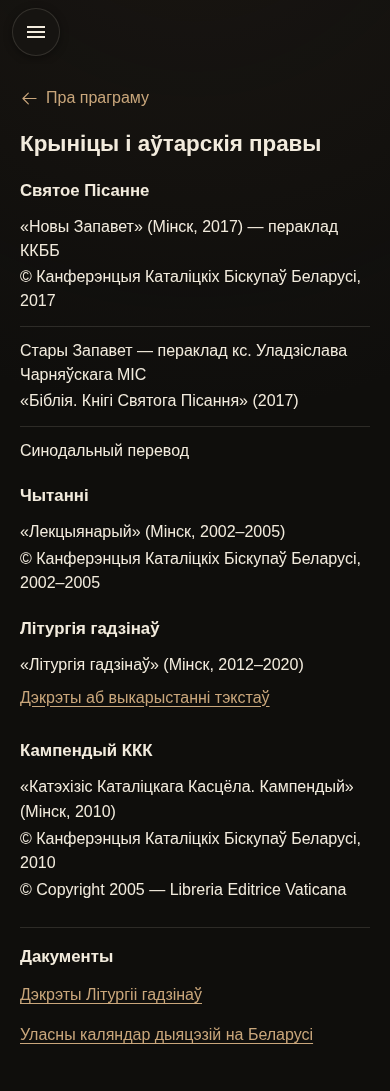
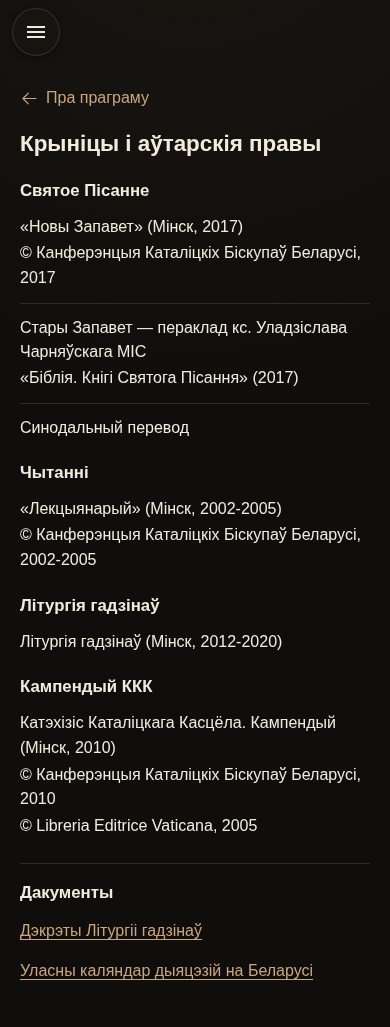
fix: align source attribution with primary remarks and trim review artifacts

diff --git a/src/components/SourceRights.vue b/src/components/SourceRights.vue
@@ -4,11 +4,10 @@
       <h2 :id="`sources-${group.id}`">{{ group.title }}</h2>
       <ul class="source-rights__list">
         <li v-for="source in group.entries" :id="source.id" :key="source.id" class="source-rights__entry">
-          <h3 v-if="source.translation.label">{{ textLabel(source) }}</h3>
-          <p v-if="edition(source) && source.id !== bindings.bible.bel.new" class="source-rights__edition">{{ edition(source) }}</p>
-          <p v-for="notice in source.copyrightNotices" :key="notice">{{ notice }}</p>
+          <h3 v-if="source.translation.label && source.id !== bindings.bible.bel.new">{{ textLabel(source) }}</h3>
+          <p v-if="edition(source)" class="source-rights__edition">{{ edition(source) }}</p>
+          <p v-for="notice in source.copyrightNotices" :key="notice">{{ copyrightNotice(notice) }}</p>
           <p v-if="source.rightsholder && !source.copyrightNotices.length">{{ source.rightsholder }}</p>
-          <router-link v-if="source.decrees" :to="{ name: 'LiturgyHoursDecrees' }" class="source-rights__decrees-link">Дэкрэты аб выкарыстанні тэкстаў</router-link>
         </li>
       </ul>
     </section>
@@ -29,17 +28,17 @@ const groups = [
 function edition(source) {
   const details = [source.publicationPlace, source.years].filter(Boolean).join(', ');
   if (source.id === bindings.bible.ru.old) return '';
-  return `«${source.officialEdition}»${details ? ` (${details})` : ''}`;
+  const title = ['liturgy-hours-2012-2020', 'compendium-kkbb-2010'].includes(source.id) ? source.officialEdition : `«${source.officialEdition}»`;
+  return `${title}${details ? ` (${details})` : ''}`;
 }
 
 function textLabel(source) {
-  if (source.id === bindings.bible.bel.new) {
-    const translator = source.translation.label.split(' · ').at(-1).replace(`, ${source.years}`, '');
-    return `${edition(source)} — ${translator}`;
-  }
   return source.translation.label.replace(' · ', ' — ').replace(`, ${source.years}`, '');
 }
 
+function copyrightNotice(notice) {
+  return notice.replace(/^© Copyright (\d+) — (.+)$/, '© $2, $1');
+}
 </script>
 
 <style scoped>
@@ -52,6 +51,5 @@ function textLabel(source) {
 .source-rights__entry + .source-rights__entry { margin-top: 12px; padding-top: 12px; border-top: 1px solid var(--nav-border); }
 .source-rights p { margin: 2px 0 0; }
 .source-rights a { color: var(--chrome-accent); text-underline-offset: 3px; }
-.source-rights__decrees-link { display: inline-block; padding-block: 8px; }
 .source-rights a:focus-visible { outline: 2px solid var(--chrome-accent); outline-offset: 3px; }
 </style>

diff --git a/src/views/ProperCalendar.vue b/src/views/ProperCalendar.vue
@@ -10,7 +10,10 @@
         <section v-for="page in calendar.pages" :key="page.number" :data-page="page.number" class="calendar-page" :aria-label="`Старонка ${page.number} арыгінала`">
           <template v-for="(row, index) in page.rows" :key="index">
             <h2 v-if="row.kind === 'month'" :id="`month-${row.month}`" class="calendar-month">{{ row.text }}</h2>
-            <p v-else-if="row.kind === 'intro' || row.kind === 'note'" :class="`calendar-${row.kind}`"><DocumentRuns :runs="row.runs" /></p>
+            <template v-else-if="row.kind === 'intro'">
+              <p v-if="index === 0" class="calendar-intro"><DocumentRuns :runs="introRuns" /></p>
+            </template>
+            <p v-else-if="row.kind === 'note'" class="calendar-note"><DocumentRuns :runs="row.runs" /></p>
             <div v-else class="calendar-row" :class="{ 'calendar-row--full': !row.date && !row.indent, 'calendar-row--empty': row.date && !row.runs.length }" :data-month="row.month" :data-date="row.date">
               <span v-if="row.date" class="calendar-date" :class="`doc-tone--${row.dateTone}`">{{ row.date }}.</span>
               <span class="calendar-text"><DocumentRuns :runs="row.runs" /></span>
@@ -27,6 +30,10 @@
 import calendar from '@/data/documents/proper-calendar.json';
 import DocumentBack from '@/components/DocumentBack.vue';
 import DocumentRuns from '@/components/DocumentRuns.vue';
+// Keep the five source lines and their styles intact in the document data.
+// Only their presentation becomes one logical, naturally wrapping paragraph.
+const introRuns = calendar.pages.flatMap(page => page.rows).filter(row => row.kind === 'intro')
+  .flatMap((row, index) => [...(index ? [{ ...row.runs[0], text: ' ' }] : []), ...row.runs]);
 </script>
 <style src="@/styles/documents.css"></style>
 <style scoped>

diff --git a/scripts/documents/check-source-citations.py b/scripts/documents/check-source-citations.py
@@ -1,0 +1,25 @@
+#!/usr/bin/env python3
+"""Verify public bibliography against the supplied original DOCX, not prompt copies."""
+from pathlib import Path
+import json
+import zipfile
+import xml.etree.ElementTree as ET
+root = Path(__file__).resolve().parents[2]
+with zipfile.ZipFile(root / 'docs/sources/primary/jan-kremis-remarks-2026-11-02.docx') as archive:
+    xml = ET.fromstring(archive.read('word/document.xml'))
+ns = {'w': 'http://schemas.openxmlformats.org/wordprocessingml/2006/main'}
+paragraphs = [''.join(p.itertext()).strip() for p in xml.findall('.//w:p', ns)]
+entries = {e['id']: e for e in json.loads((root / 'src/data/sources.json').read_text())['entries']}
+for id, quoted in [('bible-nt-kkbb-2017', True), ('lectionary-kkbb-2002-2005', True), ('compendium-kkbb-2010', False), ('liturgy-hours-2012-2020', False)]:
+    e = entries[id]
+    title = f'«{e["officialEdition"]}»' if quoted else e['officialEdition']
+    citation = f'{title} ({e["publicationPlace"]}, {e["years"]})'
+    assert citation in paragraphs, citation
+    if e['rightsholder']:
+        assert e['copyrightNotices'][0] in paragraphs, e['copyrightNotices'][0]
+assert entries['bible-nt-kkbb-2017']['translation']['label'] == 'Новы Запавет · ККББ, 2017'
+for id in ['liturgy-hours-2012-2020', 'bible-charniauski-2017', 'bible-ru-synodal']:
+    assert entries[id]['rightsholder'] is None
+legacy_notice = entries['compendium-kkbb-2010']['copyrightNotices'][1]
+assert legacy_notice in (root / 'scripts/compendium-source/3963-kampendyj-katekhizisa-katalitskaga-kastsjola.html').read_text()
+print('DOCX: four bibliographic citations and three KKBB notices match verbatim; LEV verified against saved primary HTML; unknown holders remain null')

diff --git a/scripts/documents/build-calendar-comparisons.py b/scripts/documents/build-calendar-comparisons.py
@@ -3,10 +3,11 @@
 No application data is changed. Requires PyMuPDF and Pillow.
 """
 from pathlib import Path
+import os
 import fitz
 from PIL import Image, ImageDraw, ImageFont
 root = Path(__file__).resolve().parents[2]
-out = root / 'docs/sources/evidence/documents'
+out = root / os.environ.get('SOURCE_EVIDENCE_DIR', 'reports/source-review/documents')
 pdf = fitz.open(root / 'public/documents/proper-calendar.pdf')
 font = ImageFont.truetype('/usr/share/fonts/truetype/dejavu/DejaVuSans.ttf', 19)
 for number in [1, 5, 8, 12, 13]:

diff --git a/docs/sources/documents-audit-2026-11-05.md b/docs/sources/documents-audit-2026-11-05.md
@@ -1,5 +1,7 @@
 # PR #189: первичные документы, декреты и собственный календарь
 
+Актуальные точечные исправления: [отчёт независимой проверки](review-corrections.md).
+
 Доработка по пакету `MyBrev_PR189_sources_decrees_calendar.zip`, полученному 05.11.2026.
 Исходная ревизия этой доработки: `02aa708`. Использованы все три присланных первичных
 документа и https://lh.catholic.by/dekrety.php. Контрольные суммы и исходные имена —
@@ -118,25 +120,25 @@ HTML представляет читаемую статью: бумажные п
 
 | Лист | Диапазон и особенности | HTML-снимок |
 | --- | --- | --- |
-| 1 | Заголовок/протоколы, январь 1–31, диоцезия 27-го, Крещение, красное курсивное примечание | [01](evidence/documents/html-sheet-01.png) |
-| 2 | Февраль 1–28, два варианта 3-го и 8-го, подзапись 15-го | [02](evidence/documents/html-sheet-02.png) |
-| 3 | Март 1–31, Казимир 4-го, освящение собора 16-го, степени справа | [03](evidence/documents/html-sheet-03.png) |
-| 4 | Апрель 1–30, пустые даты, пары воспоминаний, капители 29-го | [04](evidence/documents/html-sheet-04.png) |
-| 5 | Май 1–31, Пинск 1-го, многострочный Андрей Боболя 16-го, пурпурная звёздочка | [05](evidence/documents/html-sheet-05.png) |
-| 6 | Три подвижных празднования после мая, без нового месяца | [06](evidence/documents/html-sheet-06.png) |
-| 7 | Июнь 1–30, разные диоцезии 12-го, три подвижные записи после 30-го | [07](evidence/documents/html-sheet-07.png) |
-| 8 | Июль 1–31, Будслав 2-го, Тамаш 3-го, Кармель 16-го, Мария/Марта/Лазарь 29-го | [08](evidence/documents/html-sheet-08.png) |
-| 9 | Август 1–31, Кольбе 14-го, Ченстоховская Богоматерь 26-го, степени и звёздочки | [09](evidence/documents/html-sheet-09.png) |
-| 10 | Сентябрь 1–30, несколько диоцезий, капители и звёздочка 29-го | [10](evidence/documents/html-sheet-10.png) |
-| 11 | Октябрь 1–31, тройная запись 9-го, освящение 10-го, две диоцезии 26-го | [11](evidence/documents/html-sheet-11.png) |
-| 12 | Ноябрь 1–25, Язафат 12-го, все диоцезиальные варианты 16-го, курсив и отступы | [12](evidence/documents/html-sheet-12.png) |
-| 13 | Ноябрь 26–30, Христос Царь, декабрь 1–31, Гродно 4-го, Святое Семейство | [13](evidence/documents/html-sheet-13.png) |
+| 1 | Заголовок/протоколы, январь 1–31, диоцезия 27-го, Крещение, красное курсивное примечание | 01 (`evidence/documents/html-sheet-01.png`, воспроизводимый снимок в `reports/source-review/`) |
+| 2 | Февраль 1–28, два варианта 3-го и 8-го, подзапись 15-го | 02 (`evidence/documents/html-sheet-02.png`, воспроизводимый снимок в `reports/source-review/`) |
+| 3 | Март 1–31, Казимир 4-го, освящение собора 16-го, степени справа | 03 (`evidence/documents/html-sheet-03.png`, воспроизводимый снимок в `reports/source-review/`) |
+| 4 | Апрель 1–30, пустые даты, пары воспоминаний, капители 29-го | 04 (`evidence/documents/html-sheet-04.png`, воспроизводимый снимок в `reports/source-review/`) |
+| 5 | Май 1–31, Пинск 1-го, многострочный Андрей Боболя 16-го, пурпурная звёздочка | 05 (`evidence/documents/html-sheet-05.png`, воспроизводимый снимок в `reports/source-review/`) |
+| 6 | Три подвижных празднования после мая, без нового месяца | 06 (`evidence/documents/html-sheet-06.png`, воспроизводимый снимок в `reports/source-review/`) |
+| 7 | Июнь 1–30, разные диоцезии 12-го, три подвижные записи после 30-го | 07 (`evidence/documents/html-sheet-07.png`, воспроизводимый снимок в `reports/source-review/`) |
+| 8 | Июль 1–31, Будслав 2-го, Тамаш 3-го, Кармель 16-го, Мария/Марта/Лазарь 29-го | 08 (`evidence/documents/html-sheet-08.png`, воспроизводимый снимок в `reports/source-review/`) |
+| 9 | Август 1–31, Кольбе 14-го, Ченстоховская Богоматерь 26-го, степени и звёздочки | 09 (`evidence/documents/html-sheet-09.png`, воспроизводимый снимок в `reports/source-review/`) |
+| 10 | Сентябрь 1–30, несколько диоцезий, капители и звёздочка 29-го | 10 (`evidence/documents/html-sheet-10.png`, воспроизводимый снимок в `reports/source-review/`) |
+| 11 | Октябрь 1–31, тройная запись 9-го, освящение 10-го, две диоцезии 26-го | 11 (`evidence/documents/html-sheet-11.png`, воспроизводимый снимок в `reports/source-review/`) |
+| 12 | Ноябрь 1–25, Язафат 12-го, все диоцезиальные варианты 16-го, курсив и отступы | 12 (`evidence/documents/html-sheet-12.png`, воспроизводимый снимок в `reports/source-review/`) |
+| 13 | Ноябрь 26–30, Христос Царь, декабрь 1–31, Гродно 4-го, Святое Семейство | 13 (`evidence/documents/html-sheet-13.png`, воспроизводимый снимок в `reports/source-review/`) |
 
-Сопоставления: [лист 1](evidence/documents/compare-sheet-01.png),
-[лист 5](evidence/documents/compare-sheet-05.png),
+Сопоставления: лист 1 (`evidence/documents/compare-sheet-01.png`, воспроизводимый снимок в `reports/source-review/`),
+лист 5 (`evidence/documents/compare-sheet-05.png`, воспроизводимый снимок в `reports/source-review/`),
 [лист 8](evidence/documents/compare-sheet-08.png),
 [лист 12](evidence/documents/compare-sheet-12.png),
-[лист 13](evidence/documents/compare-sheet-13.png).
+лист 13 (`evidence/documents/compare-sheet-13.png`, воспроизводимый снимок в `reports/source-review/`).
 Они покрывают вступление, цвета, курсив, звёздочки, многострочные/вложенные записи,
 капители, степени справа и продолжение месяца на другом листе.
 
@@ -144,12 +146,12 @@ HTML представляет читаемую статью: бумажные п
 
 Основные страницы: [декреты, телефон](evidence/documents/decrees-390-light.png),
 [календарь, телефон](evidence/documents/calendar-390-light.png),
-[декреты, desktop](evidence/documents/decrees-1440-light.png),
-[календарь, desktop](evidence/documents/calendar-1440-light.png).
-Контрольные фрагменты (без плавающего меню): [IV декрет](evidence/documents/decree-IV-390-light.png),
-[ноябрь](evidence/documents/november-390-light.png).
-Тёмная тема: [декреты](evidence/documents/decrees-390-dark.png),
-[календарь](evidence/documents/calendar-390-dark.png).
+декреты, desktop (`evidence/documents/decrees-1440-light.png`, воспроизводимый снимок в `reports/source-review/`),
+календарь, desktop (`evidence/documents/calendar-1440-light.png`, воспроизводимый снимок в `reports/source-review/`).
+Контрольные фрагменты (без плавающего меню): IV декрет (`evidence/documents/decree-IV-390-light.png`, воспроизводимый снимок в `reports/source-review/`),
+ноябрь (`evidence/documents/november-390-light.png`, воспроизводимый снимок в `reports/source-review/`).
+Тёмная тема: декреты (`evidence/documents/decrees-390-dark.png`, воспроизводимый снимок в `reports/source-review/`),
+календарь (`evidence/documents/calendar-390-dark.png`, воспроизводимый снимок в `reports/source-review/`).
 Все 320/390/768/1440 px × light/dark — в `evidence/documents/`;
 [results.json](evidence/documents/results.json) содержит результаты восьми сценариев.
 

diff --git a/docs/sources/review-corrections.md b/docs/sources/review-corrections.md
@@ -1,0 +1,63 @@
+# PR #189: точечные исправления после независимой проверки
+
+Сверка выполнена непосредственно с `primary/jan-kremis-remarks-2026-11-02.docx`.
+Воспроизведение: `python3 scripts/documents/check-source-citations.py`.
+
+| Замечание | Статус | Результат |
+| --- | --- | --- |
+| 1. Дублирующая ссылка на декреты | Исправлено | В библиографической записи ссылки нет; единственная ссылка осталась в «Дакументы». |
+| 2. «пераклад ККББ» у Нового Завета | Исправлено | На `/sources` только «Новы Запавет» (Мінск, 2017) и © Канферэнцыя Каталіцкіх Біскупаў Беларусі, 2017. В читателе: «Новы Запавет · ККББ, 2017». |
+| 3. Дословные сведения Крэміса | Исправлено | Сверены название, место/год и ©. Для Лекционария — «Лекцыянарый» (Мінск, 2002-2005); для Кампендиума — Катэхізіс Каталіцкага Касцёла. Кампендый (Мінск, 2010); для часов — Літургія гадзінаў (Мінск, 2012-2020). Дефисы диапазонов — как в DOCX; дополнительных определений в UI нет. |
+| 4. Неустановленные правообладатели | Ждёт подтверждения | У часов, Чарняўскага и Синодального перевода остаётся `rightsholder: null`. Выдуманных значений нет; менять их не требуется. Нужны первичные выходные данные/подтверждение прав; вопросы сохранены в техническом реестре и отчёте документов. |
+| 5. Две строки © Кампендиума | Исправлено / права LEV не требуют удаления | ККББ 2010 подтверждён DOCX; LEV 2005 — сохранённым первичным HTML Catholic.by. В UI: © Libreria Editrice Vaticana, 2005. Избыточное слово `Copyright` убрано только при отображении; оригинальная строка в реестре сохранена. |
+| 6. Два набора метаданных декретов | Исправлено | Строгий тест сравнивает целиком упорядоченные проекции всех четырёх записей: том, номер, ISO-дата, URL; отдельно проверяет якоря/ID и путь первичного IV DOC. Любое расхождение вызывает ошибку теста. Полные тексты дополнительно сверяются с первичными транскрипциями. |
+| 7. Вступление календаря | Исправлено | Пять исходных строк отображаются одним `<p>`, соединённым пробелами, с сохранением каждого текстового фрагмента, цвета и остальных стилевых атрибутов. Исходный JSON не изменён; браузер проверяет точный текст абзаца и порядок символов всех 13 листов. |
+| 8. PNG и копии первичных документов | Исправлено | PNG сокращены с 50 до 7 (примерно 25,7 → 3,5 МБ). Первичные DOCX/DOC/PDF, снимок сайта и транскрипция IV сохранены: это входы проверок/генераторов. Дублирующих бинарных оригиналов не обнаружено. Остальные картинки и сравнения генерируются в игнорируемый `reports/source-review/`, не являются тестовыми входами. |
+| 9. Проверка по оригиналу DOCX | Исправлено | Новый проверочный скрипт читает `word/document.xml` непосредственно из DOCX и проверяет четыре библиографические строки и три © ККББ; LEV сверяется отдельно с сохранённым HTML. Формулировки справки сверены с оригиналом, а не с предыдущими промптами. |
+
+## Сохранность и воспроизведение
+
+Четыре полных декрета, весь календарь, 365 дат, 495 строк, звёздочки, степени,
+орфография и стилевые выделения не изменены. `src/data/documents/`,
+`public/documents/` и `docs/sources/primary/` побайтно совпадают с `03541bf`.
+Молитвы, песенник, Firestore и алгоритмы не менялись. Изменение подписи Нового
+Завета затрагивает только локальные метаданные, а не библейский текст.
+
+```sh
+python3 scripts/documents/check-source-citations.py
+python3 scripts/documents/extract-hours-decree.py --check
+python3 scripts/documents/build-hours-decrees.py --check
+python3 scripts/documents/build-proper-calendar.py --check
+npm test
+npm run lint -- --no-fix
+npm run build
+# Локальный preview, затем:
+SMOKE_BASE_URL=http://127.0.0.1:4173 node scripts/smoke-source-documents.mjs
+SMOKE_BASE_URL=http://127.0.0.1:4173 node scripts/smoke-source-rights.mjs
+python3 scripts/documents/build-calendar-comparisons.py
+```
+
+Полные снимки всех ширин/тем, 13 листов и сравнения воспроизводятся в `reports/`.
+`SOURCE_EVIDENCE_DIR` позволяет задать другой каталог. Сохранены только:
+[About](evidence/about-390.png), [источники, светлая тема](evidence/documents/sources-390-light.png),
+[источники, тёмная тема](evidence/documents/sources-390-dark.png),
+[декреты](evidence/documents/decrees-390-light.png),
+[календарь](evidence/documents/calendar-390-light.png),
+[PDF → HTML, лист 8](evidence/documents/compare-sheet-08.png),
+[PDF → HTML, лист 12](evidence/documents/compare-sheet-12.png).
+
+Старые названия снимков в исторических отчётах обозначают воспроизводимые
+артефакты, а не необходимые файлы репозитория. Ранее зафиксированные проверки
+сохраняют свой исторический контекст; этот отчёт описывает актуальный UI.
+
+## Результаты
+
+- Итоговый полный прогон: **1088 проверок, 1078 pass, 0 fail, 10 skipped**.
+  Проверка границ PR выполнена; пропуски — прежние необязательные материалы/эмуляторы.
+- Lint без автоматических исправлений, production build и `git diff --check`: PASS.
+- Браузер: 320/390/768/1440 px × light/dark — PASS. Одна ссылка на декреты,
+  точная краткая атрибуция NT, отсутствие `пераклад ККББ`/`Copyright` в справке,
+  один абзац вступления с точным текстом, все 13 листов и четыре полных декрета.
+- Читатель Библии и переходы About/Sources: PASS на 320/390/1440 px.
+- Прямые проверки оригинального DOCX и генераторов документов: PASS.
+- Merge и deploy не выполнялись.

diff --git a/docs/sources/registry-audit.md b/docs/sources/registry-audit.md
@@ -1,5 +1,7 @@
 # Единый реестр источников и правообладателей Web
 
+Актуальные точечные исправления: [отчёт независимой проверки](review-corrections.md).
+
 Актуальная доработка с первичными документами: [отчёт от 05.11.2026](documents-audit-2026-11-05.md).
 IV декрет теперь подтверждён; полный календарь опубликован отдельной статичной статьёй.
 Исторические результаты предыдущих этапов ниже сохраняются с их контекстом.
@@ -131,7 +133,7 @@ IV декрет теперь подтверждён; полный календа
 Скрипт блокирует все внешние запросы, включая Firestore. Проверены ширины
 320, 390, 1440 px, переход About → Sources → About, ссылки на документы и их навигация с клавиатуры, ссылки,
 отсутствие горизонтального скролла и три обозначения перевода Библии.
-Скриншоты: «Пра праграму» — [320](evidence/about-320.png), [390](evidence/about-390.png), [1440](evidence/about-1440.png); справка — [320](evidence/sources-320.png), [390](evidence/sources-390.png), [1440](evidence/sources-1440.png);
+Скриншоты: «Пра праграму» — 320 (`evidence/about-320.png`, воспроизводимый снимок в `reports/source-review/`), [390](evidence/about-390.png), 1440 (`evidence/about-1440.png`, воспроизводимый снимок в `reports/source-review/`); справка — 320 (`evidence/sources-320.png`, воспроизводимый снимок в `reports/source-review/`), 390 (`evidence/sources-390.png`, воспроизводимый снимок в `reports/source-review/`), 1440 (`evidence/sources-1440.png`, воспроизводимый снимок в `reports/source-review/`);
 новые документы — [декреты](evidence/documents/decrees-390-light.png), [календарь](evidence/documents/calendar-390-light.png).
 Это проверка UI и локальных метаданных; полнота текста из live Firestore не проверялась.
 
